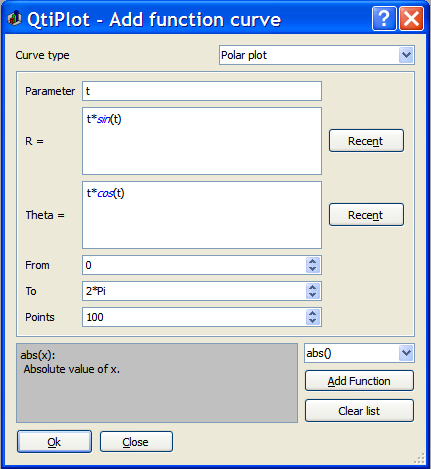
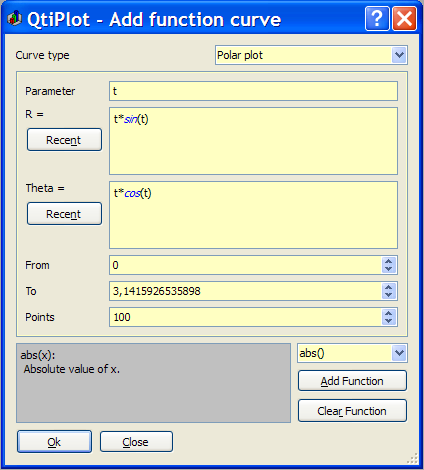
Improved layout of the 2D function dialog (parametric and polar tabs).
git-svn-id: http://svn.berlios.de/svnroot/repos/qtiplot/trunk@1559 5a6a7de5-fb12-0410-b871-c33778c25c60

diff --git a/qtiplot/src/plot2D/dialogs/FunctionDialog.cpp b/qtiplot/src/plot2D/dialogs/FunctionDialog.cpp
@@ -139,7 +139,7 @@ FunctionDialog::FunctionDialog(ApplicationWindow* parent, bool standAlone, Qt::W
 	gl2->addWidget(boxParameter, 0, 1);
 
 	int maxH = 80;
-	gl2->addWidget(new QLabel(tr( "x = " )), 1, 0);
+
 	boxXFunction = new ScriptEdit(d_app->scriptingEnv());
 	boxXFunction->setMaximumHeight(maxH);
 	boxXFunction->enableShortcuts();
@@ -148,10 +148,13 @@ FunctionDialog::FunctionDialog(ApplicationWindow* parent, bool standAlone, Qt::W
 
 	buttonXParLog = new QPushButton(recentBtnText);
 	buttonXParLog->setToolTip(recentTip);
-	gl2->addWidget(buttonXParLog, 1, 2);
 	connect(buttonXParLog, SIGNAL(clicked()), this, SLOT(showXParLog()));
 
-	gl2->addWidget(new QLabel(tr( "y = " )), 2, 0);
+	QVBoxLayout *vlxpar = new QVBoxLayout();
+	vlxpar->addWidget(new QLabel(tr( "x = " )));
+	vlxpar->addWidget(buttonXParLog);
+	vlxpar->addStretch();
+	gl2->addLayout(vlxpar, 1, 0);
 
 	boxYFunction = new ScriptEdit(d_app->scriptingEnv());
 	boxYFunction->setMaximumHeight(maxH);
@@ -161,8 +164,13 @@ FunctionDialog::FunctionDialog(ApplicationWindow* parent, bool standAlone, Qt::W
 
 	buttonYParLog = new QPushButton(recentBtnText);
 	buttonYParLog->setToolTip(recentTip);
-	gl2->addWidget(buttonYParLog, 2, 2);
 	connect(buttonYParLog, SIGNAL(clicked()), this, SLOT(showYParLog()));
+
+	QVBoxLayout *vlypar = new QVBoxLayout();
+	vlypar->addWidget(new QLabel(tr( "y = " )));
+	vlypar->addWidget(buttonYParLog);
+	vlypar->addStretch();
+	gl2->addLayout(vlypar, 2, 0);
 
 	gl2->addWidget(new QLabel(tr( "From" )), 3, 0);
 	boxParFrom = new DoubleSpinBox();
@@ -195,7 +203,6 @@ FunctionDialog::FunctionDialog(ApplicationWindow* parent, bool standAlone, Qt::W
 	boxPolarParameter->setText ("t");
 	gl3->addWidget(boxPolarParameter, 0, 1);
 
-	gl3->addWidget(new QLabel(tr( "R =" )), 1, 0);
 	boxPolarRadius = new ScriptEdit(d_app->scriptingEnv());
 	boxPolarRadius->setMaximumHeight(maxH);
 	boxPolarRadius->enableShortcuts();
@@ -204,10 +211,13 @@ FunctionDialog::FunctionDialog(ApplicationWindow* parent, bool standAlone, Qt::W
 
 	buttonPolarRadiusLog = new QPushButton(recentBtnText);
 	buttonPolarRadiusLog->setToolTip(recentTip);
-	gl3->addWidget(buttonPolarRadiusLog, 1, 2);
 	connect(buttonPolarRadiusLog, SIGNAL(clicked()), this, SLOT(showPolarRadiusLog()));
 
-	gl3->addWidget(new QLabel(tr( "Theta =" )), 2, 0);
+	QVBoxLayout *vlrpar = new QVBoxLayout();
+	vlrpar->addWidget(new QLabel(tr( "R =" )));
+	vlrpar->addWidget(buttonPolarRadiusLog);
+	vlrpar->addStretch();
+	gl3->addLayout(vlrpar, 1, 0);
 
 	boxPolarTheta = new ScriptEdit(d_app->scriptingEnv());
 	boxPolarTheta->setMaximumHeight(maxH);
@@ -217,8 +227,13 @@ FunctionDialog::FunctionDialog(ApplicationWindow* parent, bool standAlone, Qt::W
 
 	buttonPolarRThetaLog = new QPushButton(recentBtnText);
 	buttonPolarRThetaLog->setToolTip(recentTip);
-	gl3->addWidget(buttonPolarRThetaLog, 2, 2);
 	connect(buttonPolarRThetaLog, SIGNAL(clicked()), this, SLOT(showPolarThetaLog()));
+
+	QVBoxLayout *vltpar = new QVBoxLayout();
+	vltpar->addWidget(new QLabel(tr( "Theta =" )));
+	vltpar->addWidget(buttonPolarRThetaLog);
+	vltpar->addStretch();
+	gl3->addLayout(vltpar, 2, 0);
 
 	gl3->addWidget(new QLabel(tr( "From" )), 3, 0);
 	boxPolarFrom = new DoubleSpinBox();

diff --git a/qtiplot/src/plot2D/dialogs/EnrichmentDialog.cpp b/qtiplot/src/plot2D/dialogs/EnrichmentDialog.cpp
@@ -801,14 +801,14 @@ void EnrichmentDialog::setCoordinates(int unit)
 		double left = xBox->value();
 		double top = yBox->value();
 		FrameWidget *fw = qobject_cast<FrameWidget *>(d_widget);
-        if (fw)
-            fw->setCoordinates(left, top, left + widthBox->value(), top - heightBox->value());
+		if (fw)
+			fw->setCoordinates(left, top, left + widthBox->value(), top - heightBox->value());
 	} else
 		FrameWidget::setRect(d_widget, xBox->value(), yBox->value(),
-        widthBox->value(), heightBox->value(), (FrameWidget::Unit)unit);
+		widthBox->value(), heightBox->value(), (FrameWidget::Unit)unit);
 
-    if (d_plot)
-        d_plot->multiLayer()->notifyChanges();
+	if (d_plot)
+		d_plot->multiLayer()->notifyChanges();
 
 	ApplicationWindow *app = (ApplicationWindow *)parentWidget();
 	if (app)
